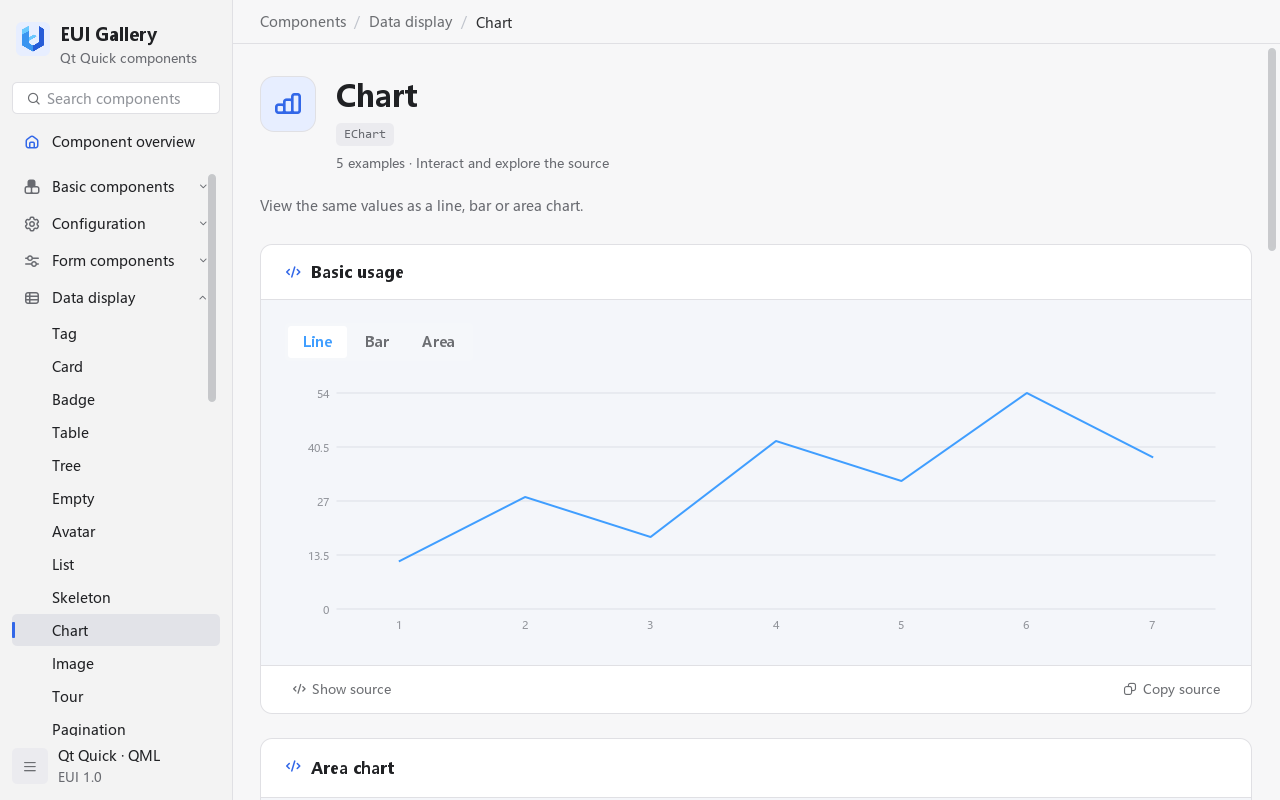
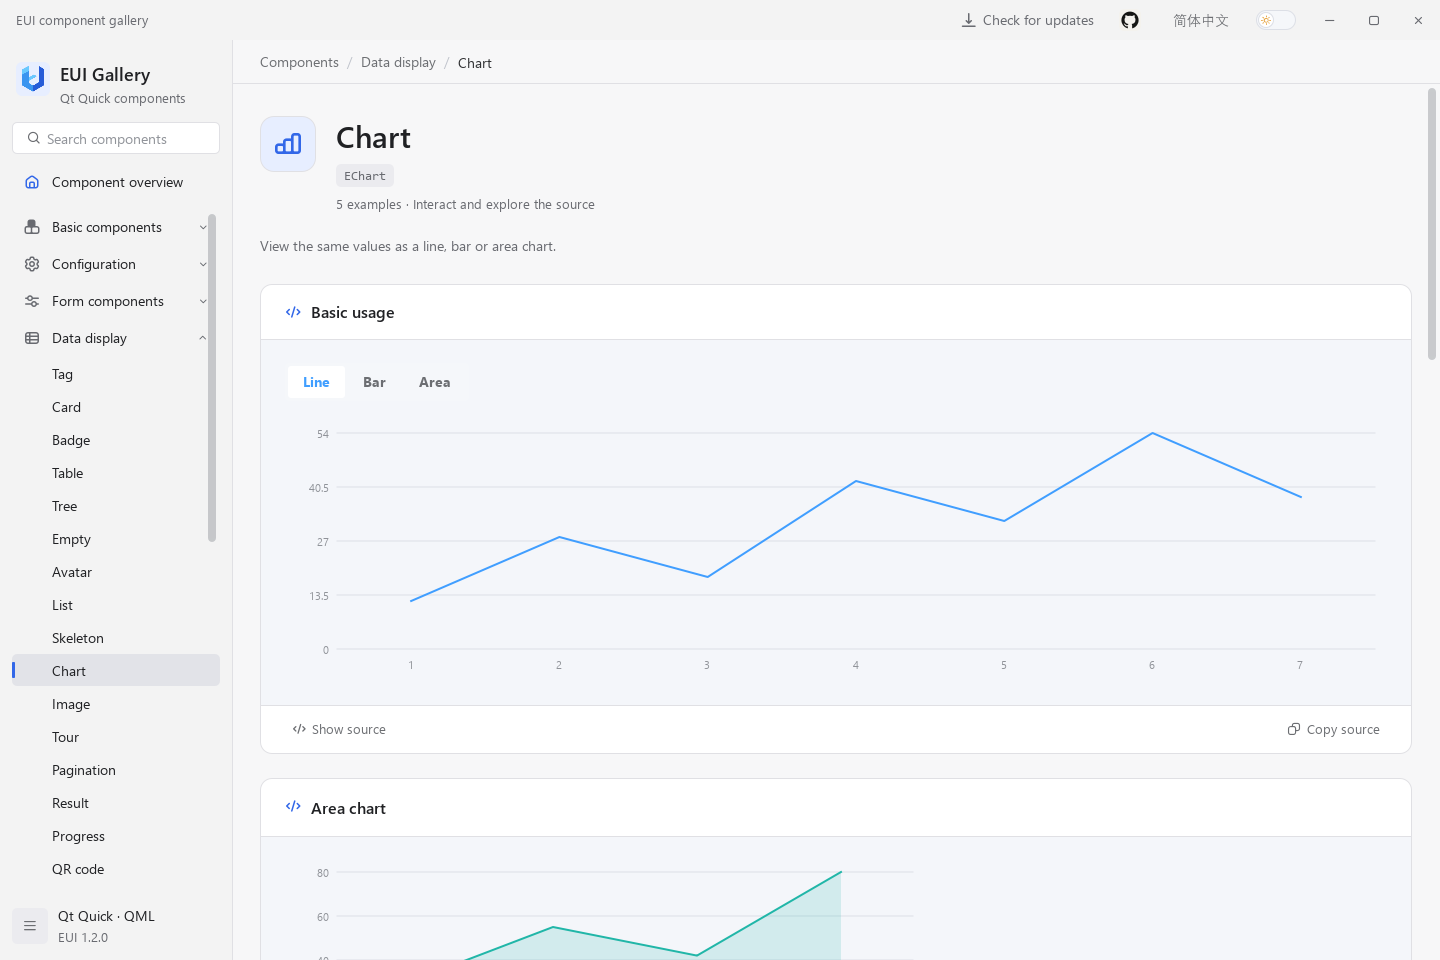
docs: refresh project guides and Gallery screenshots

diff --git a/README.md b/README.md
@@ -2,39 +2,24 @@
 
 English | [简体中文](docs/README.zh-CN.md)
 
-[![Windows build and package](https://github.com/lihechuan/EUI/actions/workflows/build-windows.yml/badge.svg)](https://github.com/lihechuan/EUI/actions/workflows/build-windows.yml)
-[![MIT License](https://img.shields.io/badge/license-MIT-blue.svg)](LICENSE)
+EUI is a Qt Quick / QML component library for desktop applications, with forms, data tables, navigation, charts, and shared light and dark themes. The Gallery provides interactive examples, copyable QML source, and API references.
 
-EUI is a UI component library for Qt Quick / QML desktop applications. It provides controls for forms, data tables, navigation, charts, and application feedback, with shared light and dark themes.
+## Preview
 
-The **EUI Gallery** brings together **126 components** with interactive examples, copyable QML source, and API references. Use it to explore a control's behavior before adding it to your application.
+![Complete Gallery window with the top dock and component navigation](docs/screenshots/overview-en.png)
 
-Current source version: **1.2.0**. Adds file/folder pickers, a toolbar, code view, command palette, and wizard. The Gallery marks components introduced in this version. Windows packages include a Qt 6 runtime for the Littlest Tokyo 3D example, and the Gallery supports verified updates.
+## Try the Gallery
 
-![EUI Gallery: component navigation, search, and interactive previews](docs/screenshots/overview-en.png)
+Download a package for your system and architecture from [GitHub Releases](https://github.com/lihechuan/EUI/releases). Use the installer, or extract the complete portable package and launch the Gallery. Keep its libraries and subdirectories together; packaged applications do not require a Qt SDK.
 
-## Components
+Search for a component, try its examples, and select **Show source** or **Copy source**. The API below each example explains its properties, methods, and signals. Use the language and theme controls to switch appearance.
 
-| Area | Components | Capabilities |
-| --- | --- | --- |
-| Everyday controls | `EButton`, `EInput`, `ESelect` | Buttons, text entry, selection, sizes, and states |
-| Forms | `EForm`, `EFormItem`, `EDatePicker`, `ETimePicker` | Field validation, error feedback, and date/time input |
-| Data views | `ETable`, `ETree`, `EList`, `EListy` | Editable tables with sorting, filtering, and pagination; trees and virtual lists |
-| Navigation and layout | `EMenu`, `ETabs`, `EBreadcrumb`, `EFlex` | Menus, page navigation, and flexible layouts |
-| Messages and dialogs | `EApp` | Application-scoped messages, notifications, and modal dialogs |
-| Charts and motion | `EChart`, `EECharts`, `EAnimation` | Native charts, Apache ECharts integration through WebEngine, and 83 animation presets |
-| Appearance and language | `ETheme`, `ELocale`, `EConfigProvider` | Light/dark themes, English/Chinese text, and scoped configuration |
+## Build from source
 
-See [table, form, chart, and theme screenshots](docs/screenshots/README.md) for more examples of the interface.
-
-## Run the Gallery
-
-The build steps below use **Windows x64, Qt 5.15.2 MSVC 2019, CMake 3.20+, and Ninja**. Install the [required Qt modules](docs/guide.en.md#1-prerequisites), then open an x64 **Developer PowerShell for VS 2019** in the repository root.
-
-Replace `$qtKit` with your Qt Kit directory:
+The commands below run on Windows. Prepare a desktop Qt Kit, its matching C++ compiler, CMake, and Ninja using the [build guide](docs/guide.en.md#1-prerequisites). Open Developer PowerShell in the repository root and replace `$qtKit` with your Kit directory:
 
 ```powershell
-$qtKit = 'D:/Qt/5.15.2/msvc2019_64'
+$qtKit = 'D:/Qt/your-desktop-kit'
 $env:PATH = "$qtKit/bin;" + $env:PATH
 
 cmake -S . -B build/local -G Ninja -DCMAKE_BUILD_TYPE=Release `
@@ -44,71 +29,34 @@ cmake --build build/local --target example --parallel
 & ./bin/Release/example.exe
 ```
 
-The build places the executable in `bin/Release/` and copies the EUI module beside it and into `$qtKit/qml/EUI/`. The Qt import directory must be writable.
+The build copies the EUI module beside the executable and into `$qtKit/qml/EUI/`; the Qt import directory must be writable. Other toolchain configurations are covered in the guide.
 
-In the Gallery:
+## Use in your application
 
-1. Search for a component, such as `ETable`, or browse a category.
-2. Try its examples, including editable values and component states.
-3. Select **Show source** or **Copy source**, then check the API below the examples.
+1. Build and install EUI with the same Qt Kit and build configuration as your application.
+2. Copy the complete `EUI/` module, including its plugin, into your application. Add its parent directory to the QML engine's import path.
+3. Import the EUI module in your QML, then use the Gallery's examples and API to configure the controls you need.
 
-Use the language and theme controls to compare English/Chinese text and light/dark appearance.
+The [application integration guide](docs/guide.en.md#3-integrate-a-qt-quick-application) includes a complete project, build commands, and QML examples. Follow the [deployment guide](docs/guide.en.md#6-deploy-your-application) when distributing your application.
 
-## Use EUI in your application
+## More components
 
-Build and install the library with the same Qt Kit as your application, then add the complete `EUI/` module directory to the application's QML import path. The [integration guide](docs/guide.en.md#3-integrate-a-qt-quick-application) includes the library build, CMake project, C++ entry point, and module-copy commands.
+![Buttons and interaction states](docs/screenshots/buttons-en.png)
 
-This `main.qml` creates a window with a counter and a message. Click **Add one** to update the bound text and display feedback through `EApp`:
+![Data editing, filtering, and pagination](docs/screenshots/table-en.png)
 
-```qml
-import EUI 1.0
-import QtQuick 2.15
+![Form inputs and validation feedback](docs/screenshots/form-en.png)
 
-EApplicationWindow {
-    id: window
+![Native charts](docs/screenshots/chart-en.png)
 
-    property int clicks: 0
+![Code highlighting and copying](docs/screenshots/code-view-en.png)
 
-    width: 480
-    height: 320
-    visible: true
-    title: "EUI Demo"
+![Command search and selection](docs/screenshots/command-palette-en.png)
 
-    EApp {
-        id: app
+![Step-by-step setup](docs/screenshots/wizard-en.png)
 
-        anchors.fill: parent
+## Support and license
 
-        Column {
-            x: 24
-            y: 24
-            spacing: 16
+Report problems or request features through [GitHub Issues](https://github.com/lihechuan/EUI/issues) or email [xiaojiaqaq@gmail.com](mailto:xiaojiaqaq@gmail.com). See [CONTRIBUTING.md](CONTRIBUTING.md) for contribution guidelines.
 
-            EText {
-                text: "Clicks: " + window.clicks
-            }
-            EButton {
-                text: "Add one"
-                styleType: EStyle.Primary
-
-                onClicked: {
-                    window.clicks += 1
-                    app.message.open("Count: " + window.clicks)
-                }
-            }
-        }
-    }
-}
-```
-
-Configure form models, table columns, and other controls using the [component examples](docs/guide.en.md#4-common-features-purpose-and-usage). Follow the [deployment steps](docs/guide.en.md#6-deploy-your-application) when distributing your application.
-
-## Contributing and support
-
-Report a bug or request a feature through [GitHub Issues](https://github.com/lihechuan/EUI/issues), or contact [xiaojiaqaq@gmail.com](mailto:xiaojiaqaq@gmail.com). Include the component name, Qt version, operating system, reproduction steps, and relevant error messages.
-
-See [CONTRIBUTING.md](CONTRIBUTING.md) for contribution and build checks, and [CHANGELOG.md](CHANGELOG.md) for release history.
-
-## License
-
-EUI's own code and documentation use the [MIT License](LICENSE). Third-party software and assets retain their own licenses; see [THIRD_PARTY_NOTICES.md](THIRD_PARTY_NOTICES.md).
+EUI uses the [MIT License](LICENSE). Third-party software and assets retain their own licenses; see [THIRD_PARTY_NOTICES.md](THIRD_PARTY_NOTICES.md).

diff --git a/docs/README.zh-CN.md b/docs/README.zh-CN.md
@@ -2,39 +2,24 @@
 
 [English](../README.md) | 简体中文
 
-当前源码版本 **1.2.0**，新增文件/目录选择、工具栏、代码展示、命令面板和步骤向导；Gallery 标记本版本新增组件。Windows 包包含用于 Littlest Tokyo 3D 示例的 Qt 6 运行时，Gallery 支持经过校验的更新安装。
+EUI 是面向 Qt Quick / QML 桌面应用的组件库，提供表单、数据表格、导航、图表和统一的明暗主题。Gallery 包含交互示例、可复制的 QML 源码和 API 参考。
 
-[![Windows 构建与打包](https://github.com/lihechuan/EUI/actions/workflows/build-windows.yml/badge.svg)](https://github.com/lihechuan/EUI/actions/workflows/build-windows.yml)
-[![MIT License](https://img.shields.io/badge/license-MIT-blue.svg)](../LICENSE)
+## 界面预览
 
-EUI 是面向 Qt Quick / QML 桌面应用的 UI 组件库，提供表单、数据表格、导航、图表和消息反馈等控件，并使用统一的明暗主题。
+![包含顶部 dock 和组件导航的完整 Gallery 窗口](screenshots/overview-zh.png)
 
-**EUI Gallery** 集中了 **126 个组件**的交互示例、可复制的 QML 源码和 API 参考。接入自己的应用前，可以先在 Gallery 中查看组件表现并尝试交互。
+## 体验 Gallery
 
-![EUI Gallery：组件导航、搜索与交互预览](screenshots/overview-zh.png)
+从 [GitHub Releases](https://github.com/lihechuan/EUI/releases) 下载匹配系统和架构的安装包或免安装包。安装后启动 Gallery；免安装包需完整解压，保留其中的运行库和子目录。运行打包后的应用不需要安装 Qt SDK。
 
-## 组件能力
+搜索组件并操作示例，点击“显示源代码”或“复制源码”。示例下方的 API 说明组件的属性、方法和信号，可通过语言和主题控件切换显示效果。
 
-| 用途 | 组件 | 功能 |
-| --- | --- | --- |
-| 常用控件 | `EButton`、`EInput`、`ESelect` | 按钮、文本输入、选择，以及尺寸和状态配置 |
-| 表单 | `EForm`、`EFormItem`、`EDatePicker`、`ETimePicker` | 字段校验、错误反馈和日期时间输入 |
-| 数据展示 | `ETable`、`ETree`、`EList`、`EListy` | 支持编辑、排序、筛选和分页的表格，以及树和虚拟列表 |
-| 导航与布局 | `EMenu`、`ETabs`、`EBreadcrumb`、`EFlex` | 菜单、页面导航和弹性布局 |
-| 消息与弹窗 | `EApp` | 在应用范围内管理消息、通知和模态对话框 |
-| 图表与动画 | `EChart`、`EECharts`、`EAnimation` | 原生图表、通过 WebEngine 接入的 Apache ECharts，以及 83 个动画预设 |
-| 外观与语言 | `ETheme`、`ELocale`、`EConfigProvider` | 明暗主题、中英文文本和局部配置 |
+## 从源码运行
 
-更多界面效果见[表格、表单、图表和主题截图](screenshots/README.md)。
-
-## 运行 Gallery
-
-下列构建步骤使用 **Windows x64、Qt 5.15.2 MSVC 2019、CMake 3.20+ 和 Ninja**。准备好[所需 Qt 模块](guide.zh-CN.md#1-环境准备)，在仓库根目录打开 x64 **Developer PowerShell for VS 2019**。
-
-将 `$qtKit` 改为自己的 Qt Kit 路径：
+以下命令用于 Windows。按[构建指南](guide.zh-CN.md#1-环境准备)准备桌面 Qt Kit、匹配的 C++ 编译器、CMake 和 Ninja，在仓库根目录打开 Developer PowerShell，将 `$qtKit` 改为自己的 Kit 路径：
 
 ```powershell
-$qtKit = 'D:/Qt/5.15.2/msvc2019_64'
+$qtKit = 'D:/Qt/your-desktop-kit'
 $env:PATH = "$qtKit/bin;" + $env:PATH
 
 cmake -S . -B build/local -G Ninja -DCMAKE_BUILD_TYPE=Release `
@@ -44,71 +29,34 @@ cmake --build build/local --target example --parallel
 & ./bin/Release/example.exe
 ```
 
-构建会将可执行文件放在 `bin/Release/`，并将 EUI 模块复制到可执行文件旁和 `$qtKit/qml/EUI/`。Qt 导入目录需要可写。
-
-在 Gallery 中：
-
-1. 搜索组件，例如 `ETable`，或从分类中选择。
-2. 操作示例，尝试编辑数据和切换组件状态。
-3. 点击“显示源代码”或“复制源码”，再查看示例下方的 API。
-
-通过语言和主题控件，可以比较中英文文本及明暗主题的表现。
+构建会将 EUI 模块复制到可执行文件旁和 `$qtKit/qml/EUI/`，Qt 导入目录需要可写。其他工具链配置见构建指南。
 
 ## 接入自己的应用
 
-使用与应用相同的 Qt Kit 构建并安装组件库，将完整的 `EUI/` 模块目录加入应用的 QML 导入路径。[应用接入指南](guide.zh-CN.md#3-接入自己的-qt-quick-应用)包含组件库构建、CMake 工程、C++ 入口和模块复制命令。
+1. 使用与应用相同的 Qt Kit 和构建配置编译、安装 EUI。
+2. 将包含插件的完整 `EUI/` 模块复制到应用中，将它的父目录加入 QML 引擎的导入路径。
+3. 在 QML 中导入 EUI 模块，参考 Gallery 的示例和 API 配置需要的组件。
 
-下面的 `main.qml` 创建一个包含计数器和消息提示的窗口。点击“加一”后，绑定的文本会更新，`EApp` 会显示消息：
+[应用接入指南](guide.zh-CN.md#3-接入自己的-qt-quick-应用)提供完整工程、构建命令和 QML 示例。分发应用时，按[部署指南](guide.zh-CN.md#6-部署应用)准备运行库和模块文件。
 
-```qml
-import EUI 1.0
-import QtQuick 2.15
+## 更多组件
 
-EApplicationWindow {
-    id: window
+![按钮与交互状态](screenshots/buttons-zh.png)
 
-    property int clicks: 0
+![数据编辑、筛选与分页](screenshots/table-zh.png)
 
-    width: 480
-    height: 320
-    visible: true
-    title: "EUI 示例"
+![表单输入与校验反馈](screenshots/form-zh.png)
 
-    EApp {
-        id: app
+![原生图表](screenshots/chart-zh.png)
 
-        anchors.fill: parent
+![代码高亮与复制](screenshots/code-view-zh.png)
 
-        Column {
-            x: 24
-            y: 24
-            spacing: 16
+![命令搜索与选择](screenshots/command-palette-zh.png)
 
-            EText {
-                text: "点击次数：" + window.clicks
-            }
-            EButton {
-                text: "加一"
-                styleType: EStyle.Primary
+![步骤向导](screenshots/wizard-zh.png)
 
-                onClicked: {
-                    window.clicks += 1
-                    app.message.open("当前计数：" + window.clicks)
-                }
-            }
-        }
-    }
-}
-```
+## 反馈与许可
 
-表单模型、表格列和其他控件的配置方式见[常用组件示例](guide.zh-CN.md#4-常用功能是什么何时用如何用)。分发应用时，按[部署步骤](guide.zh-CN.md#6-部署应用)准备运行库和模块文件。
+通过 [GitHub Issues](https://github.com/lihechuan/EUI/issues) 提交问题或功能建议，也可以联系邮箱 [xiaojiaqaq@gmail.com](mailto:xiaojiaqaq@gmail.com)。贡献规范见 [CONTRIBUTING.md](../CONTRIBUTING.md)。
 
-## 参与贡献与反馈
-
-通过 [GitHub Issues](https://github.com/lihechuan/EUI/issues) 提交问题或功能建议，也可以联系 [xiaojiaqaq@gmail.com](mailto:xiaojiaqaq@gmail.com)。请附上组件名称、Qt 版本、操作系统、复现步骤和相关错误信息。
-
-贡献与构建检查见 [CONTRIBUTING.md](../CONTRIBUTING.md)，版本变化见 [CHANGELOG.md](../CHANGELOG.md)。
-
-## 许可证
-
-EUI 自身代码和文档采用 [MIT 许可证](../LICENSE)。第三方软件和资源保留各自许可，见 [THIRD_PARTY_NOTICES.md](../THIRD_PARTY_NOTICES.md)。
+EUI 采用 [MIT 许可证](../LICENSE)。第三方软件和资源保留各自许可，见 [THIRD_PARTY_NOTICES.md](../THIRD_PARTY_NOTICES.md)。

diff --git a/docs/screenshots/README.md b/docs/screenshots/README.md
@@ -2,22 +2,23 @@
 
 [中文首页](../README.zh-CN.md) · [English project page](../../README.md)
 
-截图展示 EUI Gallery 中的实际界面，包含中英文总览、表格和表单，以及英文图标、图表和源码预览。
+截图保留完整的 EUI Gallery 窗口，包括顶部 dock、组件导航和示例区域。命令面板截图展示已打开的搜索与命令列表。
 
-These screenshots show the EUI Gallery: overview, table, and form pages in English and Chinese, plus English icon, chart, and source previews.
+Each screenshot includes the complete EUI Gallery window, with its top dock, navigation, and examples. The command palette is shown open with its search field and command list.
 
-| 截图 / Screenshot | 展示功能 / Feature |
-| --- | --- |
-| [中文总览 / Chinese overview](overview-zh.png) | 导航、搜索及组件预览 / Navigation, search, and component previews |
-| [英文总览 / English overview](overview-en.png) | 英文导航和组件分类 / English navigation and categories |
-| [暗色主题 / Dark theme](overview-dark-en.png) | 共享主题下的导航与控件 / Navigation and controls using the shared theme |
-| [中文表格 / Chinese table](table-zh.png) | 编辑工具栏、数据行、列配置与分页 / Editing tools, rows, column configuration, and pagination |
-| [英文表格 / English table](table-en.png) | 对应英文表格功能 / The same table functionality in English |
-| [中文表单 / Chinese form](form-zh.png) | 数值输入、提交和字段校验 / Numeric input, submission, and field validation |
-| [英文表单 / English form](form-en.png) | 对应英文表单功能 / The same form functionality in English |
-| [图标浏览器 / Icon browser](icons-en.png) | 搜索图标、复制引用与代码 / Icon search and copying references or code |
-| [原生图表 / Native charts](chart-en.png) | `EChart` 数值序列及绘图方式 / `EChart` numeric series and chart styles |
-| [源码面板 / Source panel](source-en.png) | 交互预览、QML 高亮及源码复制 / Interactive preview, highlighted QML, and source copying |
+| 组件 / Component | 截图 / Screenshots | 展示功能 / Feature |
+| --- | --- | --- |
+| 总览 / Overview | [中文](overview-zh.png) · [English](overview-en.png) | dock、导航、搜索和组件预览 / Dock, navigation, search, and previews |
+| 暗色主题 / Dark theme | [English](overview-dark-en.png) | 明暗主题中的界面表现 / Gallery appearance in the dark theme |
+| 按钮 / Buttons | [中文](buttons-zh.png) · [English](buttons-en.png) | 按钮样式与状态 / Button styles and states |
+| 表格 / Table | [中文](table-zh.png) · [English](table-en.png) | 编辑工具、数据行和分页 / Editing tools, rows, and pagination |
+| 表单 / Form | [中文](form-zh.png) · [English](form-en.png) | 输入与字段校验 / Input and field validation |
+| 图表 / Charts | [中文](chart-zh.png) · [English](chart-en.png) | 原生图表与绘图方式 / Native chart styles |
+| 代码展示 / Code view | [中文](code-view-zh.png) · [English](code-view-en.png) | 语法高亮、行号与复制 / Highlighting, line numbers, and copying |
+| 命令面板 / Command palette | [中文](command-palette-zh.png) · [English](command-palette-en.png) | 搜索和选择命令 / Finding and selecting commands |
+| 向导 / Wizard | [中文](wizard-zh.png) · [English](wizard-en.png) | 步骤导航和页面内容 / Step navigation and page content |
+| 图标 / Icons | [English](icons-en.png) | 图标搜索和引用复制 / Icon search and copying references |
+| 源码面板 / Source panel | [English](source-en.png) | 预览、源码高亮与复制 / Preview, source highlighting, and copying |
 
 图表截图使用原生 `EChart`。`EECharts` 的用途与接入步骤见[中文指南](../guide.zh-CN.md#45-图表选择)或 [English guide](../guide.en.md#45-choosing-a-chart)。
 

diff --git a/docs/guide.en.md b/docs/guide.en.md
@@ -10,7 +10,7 @@ The default commands use **Windows, the Qt 5.15.2 MSVC 2019 64-bit Kit, C++17, a
 | Create your application | Section 1 → Section 2.2 → Section 3 | Clicking a button increases a counter and shows a message |
 | Integrate an existing Qt Quick project | Section 1 → Section 2.2 → Section 3.5 | Your existing window can use `import EUI 1.0` |
 
-For a short introduction and an interactive QML example, see the [project page](../README.md). To create release packages yourself, see [section 6.3](#63-github-packages-and-downloads).
+For an introduction, screenshots, and quick start instructions, see the [project page](../README.md). To create release packages yourself, see [section 6.3](#63-github-packages-and-downloads).
 
 ## Contents
 

diff --git a/docs/guide.zh-CN.md b/docs/guide.zh-CN.md
@@ -10,7 +10,7 @@
 | 创建自己的应用 | 第 1 节 → 第 2.2 节 → 第 3 节 | 点击按钮后计数增加，并出现消息 |
 | 接入已有 Qt Quick 项目 | 第 1 节 → 第 2.2 节 → 第 3.5 节 | 现有窗口中可以使用 `import EUI 1.0` |
 
-项目介绍和可交互的 QML 示例见[首页](README.zh-CN.md)。自行生成发布包见[第 6.3 节](#63-github-自动打包与下载)。
+项目介绍、界面截图和快速使用方法见[首页](README.zh-CN.md)。自行生成发布包见[第 6.3 节](#63-github-自动打包与下载)。
 
 ## 目录
 
